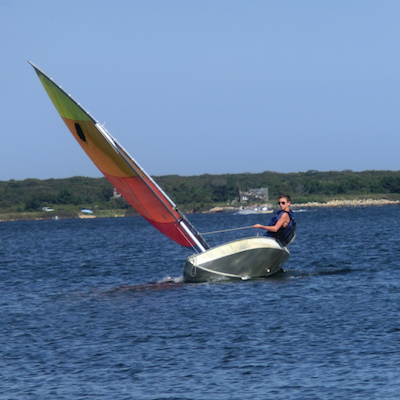
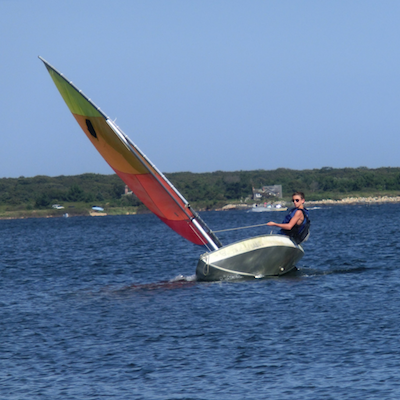
Moved programming picture to be the header photo of technical skills; added photography picture; reworded technical skills intro
Also centered the sailing picture

Changed region(s): [[0.0, 0.12, 1.0, 1.0]]

diff --git a/index.html b/index.html
@@ -138,17 +138,17 @@
                     </div>
                     <div id="interests" class="row subsection section-content wow fadeInUp">
                         <div class="row subsection-header">
-                            <h2>I like to</h2>
+                            <h2>I like</h2>
                         </div>
                         <div class="subsection-content center-and-pad">
                             <div class="row">
                                 <div class="col-md-6 highlight-section">
-                                    <img class="big-picture-rounded" src="images/activities/programming.png">
-                                    <h3>build things</h3>
+                                    <img class="big-picture-rounded" src="images/activities/sailing.png">
+                                    <h3>sailing</h3>
                                 </div>
                                 <div class="col-md-6 highlight-section">
-                                    <img class="big-picture-rounded" src="images/activities/sailing.png">
-                                    <h3>sail</h3>
+                                    <img class="big-picture-rounded" src="images/activities/camera.png">
+                                    <h3>photography</h3>
                                 </div>
                             </div>
                         </div>
@@ -158,10 +158,10 @@
                     <div id="technical-header" class="row section-header wow fadeIn">
                         <h1>Technical Skills</h1>
                     </div>
-                    <div id="technical-intro" class="row center-and-pad section-content wow fadeInUp">
+                    <div id="technical-intro" class="row center-and-pad section-content intersecting-picture-offset wow fadeInUp">
+                        <img class="header-picture big-picture-rounded" src="images/activities/programming.png">
                         <p>
-                            I love working with technology to solve problems. <br>
-                            Breathing life into great ideas never gets old.
+                            I love solving problems, and working with technology to bring ideas to life.
                         </p>
                         <p>
                             Currently I am the founder and sole developer at
